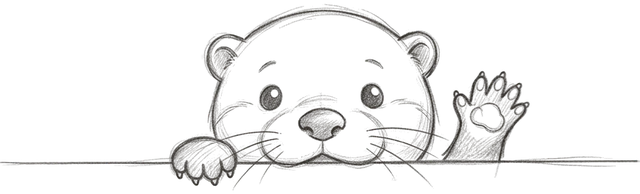
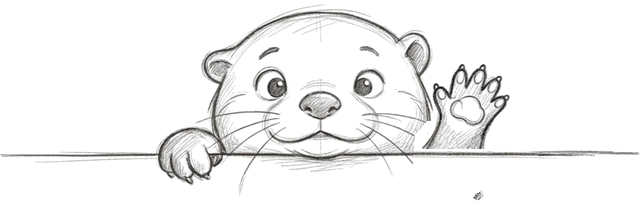
Post-it: the waving otter is the same otter, only its paw up
Andrew, 2026-10-06: "last otter doesn't look like other ones can you use
last otter just waving arm from it and make small changes that are more
consistent".

Flow's waving take was drawn unlike the other three: a rounder head, dot
eyes, a bigger nose, lighter shading, its line lower. The waving otter is now
the one looking at you (otter-3), with its right paw taken off and that
take's waving arm in its place, made by handoff/flow/otter/wave_composite.py:
- the arm alone, without the take's own cheek outline, which runs down close
  beside it, or the whiskers that reach in;
- set on otter-3's line, close against its cheek, as it was on the take;
- what it covers cut along its own outline, softly - a box cut the cheek's
  shading in a straight line;
- the wall line drawn across in front of its foot, from otter-3's own line
  to the right, moved to the height the line runs at there (borrowed from
  the left, the whiskers crossing it zigzagged);
- its lines eased a little, to the face's pencil.
So in the idle swap, from looking at you to waving, only the paw moves.
otters.json takes otter-3's line for it. The pinched-in flat pictures were
baked again.

diff --git a/src/app/landing/PostIt.tsx b/src/app/landing/PostIt.tsx
@@ -22,7 +22,12 @@
 // it, imported by handoff/flow/otter/import_otters.py: the paper divided out
 // to graphite on transparent, cropped to its own pencil line's ends, and
 // where that line sits recorded (otters.json) - so the line it was drawn
-// with is the one put on the hero's edge.
+// with is the one put on the hero's edge. The waving one (otter-4) is no
+// longer Flow's own take, which was drawn unlike the other three: it is the
+// one looking at you (otter-3) with its right paw off and that take's waving
+// arm in its place (2026-10-06: "use last otter just waving arm from it and
+// make small changes that are more consistent"; handoff/flow/otter/
+// wave_composite.py) - so from looking at you to waving, only the paw moves.
 
 import { useEffect, useRef, useState } from "react";
 import otters from "../../../public/landing/otter/otters.json";
